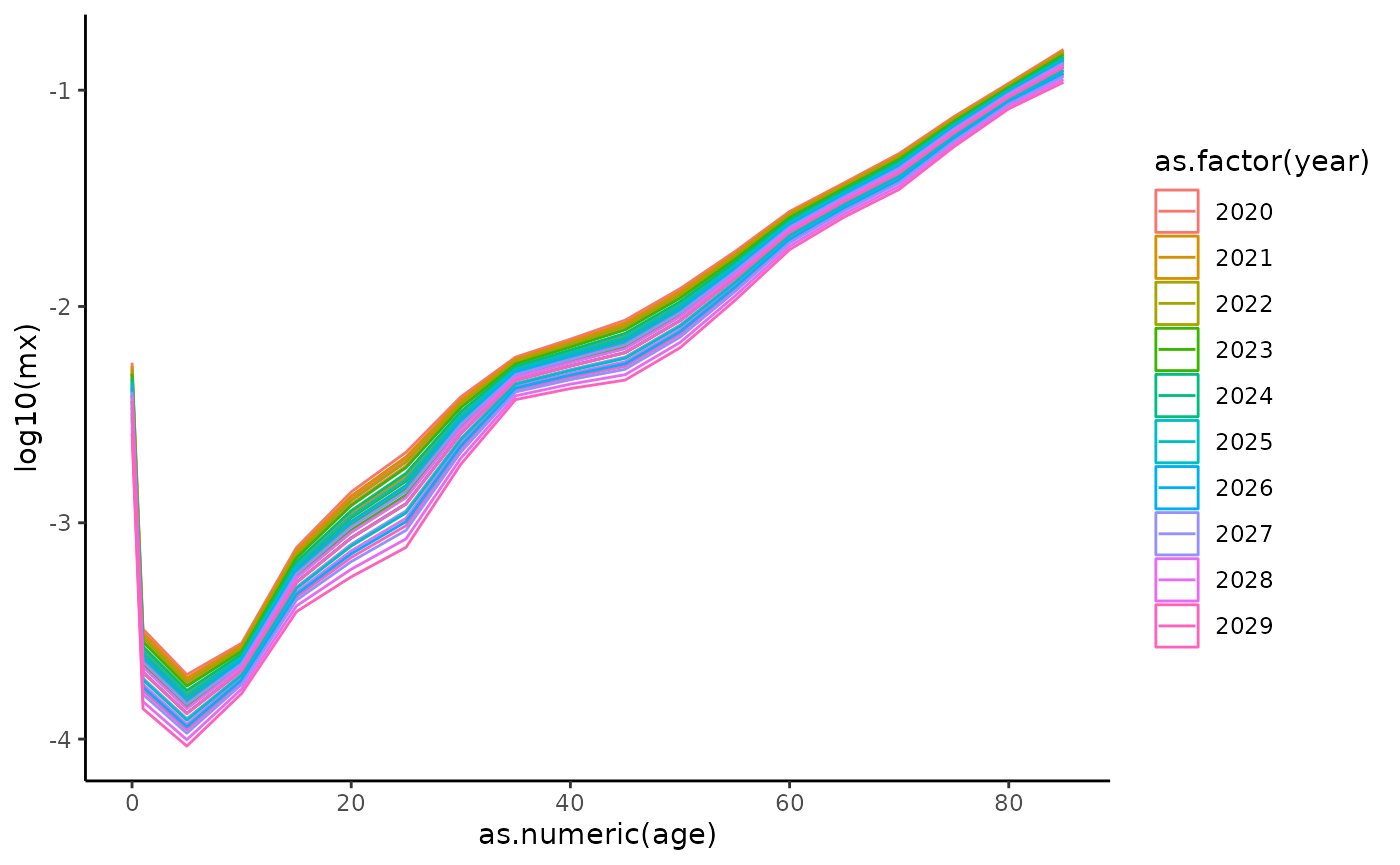
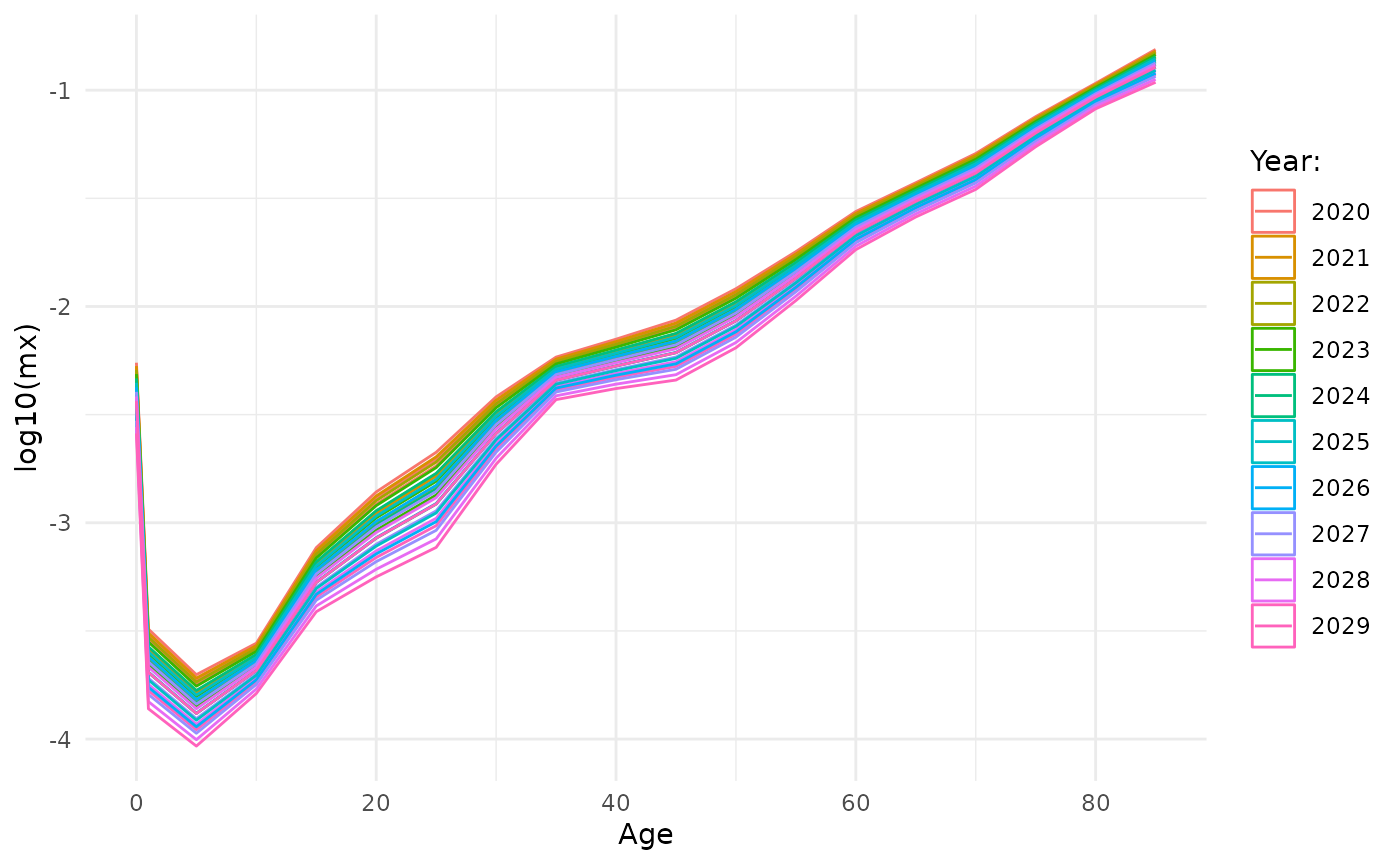
Deploying to gh-pages from @ vadvu/demor@c4a06abc60a213417fa99fec09deb61d9591432f 🚀

Changed region(s): [[0.0614, 0.0624, 0.8293, 0.9988], [0.7986, 0.1561, 0.9829, 0.7491]]

diff --git a/articles/demor.html b/articles/demor.html
@@ -70,7 +70,7 @@
 <div class="sourceCode" id="cb1"><pre class="downlit sourceCode r">
 <code class="sourceCode R"><span><span class="kw"><a href="https://rdrr.io/r/base/library.html" class="external-link">library</a></span><span class="op">(</span><span class="va"><a href="https://vadvu.github.io/demor/">demor</a></span><span class="op">)</span></span></code></pre></div>
 <div class="section level2">
-<h2 id="get-rosbris-data">Get ROSBRIS data<a class="anchor" aria-label="anchor" href="#get-rosbris-data"></a>
+<h2 id="get-rosbris-data">Get Rosbris data<a class="anchor" aria-label="anchor" href="#get-rosbris-data"></a>
 </h2>
 <p>For getting data from <a href="http://demogr.nes.ru/index.php/ru/demogr_indicat/data" class="external-link">RosBris</a>
 there is a function <code><a href="../reference/get_rosbris.html">get_rosbris()</a></code> that can download data on
@@ -160,15 +160,14 @@ in Andreev &amp; Kingkade (<a href="https://doi.org/10.4054/DemRes.2015.33.13" c
 <p>Note, from life table one can compute other <em>functions</em> (not
 just <span class="math inline">\(e_x\)</span> or <span class="math inline">\(l_x\)</span>):<br>
 1. <span class="math inline">\(CDR = \frac{1}{e_0}\)</span> or Death
-rate above some age <span class="math inline">\(x:
-\frac{1}{e_x}\)</span>.<br>
-2. Probability of surviving from age <span class="math inline">\(x\)</span> to age <span class="math inline">\(y\)</span>: <span class="math inline">\(p=\frac{l_y}{l_x}\)</span>.<br>
-3. Probability that a newborn will die between ages <span class="math inline">\(x\)</span> and <span class="math inline">\(x+n\)</span>: <span class="math inline">\(\frac{d_x^n}{l_0}\)</span>.<br>
-4. Probability that a newborn will die between ages <span class="math inline">\(x\)</span> and <span class="math inline">\(y\)</span>: <span class="math inline">\(\frac{l_x-l_y}{l_0}\)</span>.<br>
+rate above some age <span class="math inline">\(x: 1/e_x\)</span>.<br>
+2. Probability of surviving from age <span class="math inline">\(x\)</span> to age <span class="math inline">\(y\)</span>: <span class="math inline">\(p=l_y/l_x\)</span>.<br>
+3. Probability that a newborn will die between ages <span class="math inline">\(x\)</span> and <span class="math inline">\(x+n\)</span>: <span class="math inline">\(d_x^n/l_0\)</span>.<br>
+4. Probability that a newborn will die between ages <span class="math inline">\(x\)</span> and <span class="math inline">\(y\)</span>: <span class="math inline">\((l_x-l_y)/l_0\)</span>.<br>
 5. Life course ratio from age <span class="math inline">\(x\)</span> to
 <span class="math inline">\(y\)</span> that is the fraction of
 person-years lived from age <span class="math inline">\(x\)</span>
-onward: <span class="math inline">\(\frac{T_y}{T_x}\)</span>.</p>
+onward: <span class="math inline">\(T_y/T_x\)</span>.</p>
 </div>
 <div class="section level3">
 <h3 id="human-life-indicator-hli">Human Life Indicator (HLI)<a class="anchor" aria-label="anchor" href="#human-life-indicator-hli"></a>
@@ -177,7 +176,10 @@ onward: <span class="math inline">\(\frac{T_y}{T_x}\)</span>.</p>
 is the <em>human life indicator</em> (HLI) proposed by Ghislandi,
 Sanderson and Scherbov (<a href="https://doi.org/10.1111/padr.12205" class="external-link">2019</a>). It requires just
 <span class="math inline">\(m_x\)</span> (and it is based on <em>life
-table</em>). Lets calculate it using our example data:</p>
+table</em>). It is calculated as geometric mean of lifespans: <span class="math display">\[HLI = \prod_x^\omega{(x+a_x)^{d_x}}\]</span>
+where <em>x</em> is age and <em>a</em>, <em>d</em> are functions from
+<em>life table</em>.</p>
+<p>Lets calculate it using our example data:</p>
 <div class="sourceCode" id="cb5"><pre class="downlit sourceCode r">
 <code class="sourceCode R"><span><span class="fu"><a href="../reference/hli.html">hli</a></span><span class="op">(</span></span>
 <span>  age <span class="op">=</span> <span class="va">rus2010</span><span class="op">$</span><span class="va">age</span>, </span>
@@ -432,13 +434,16 @@ extensions) for mortality forecasting:</p>
 <div class="sourceCode" id="cb17"><pre class="downlit sourceCode r">
 <code class="sourceCode R"><span><span class="fu"><a href="https://ggplot2.tidyverse.org/reference/ggplot.html" class="external-link">ggplot</a></span><span class="op">(</span>data <span class="op">=</span> <span class="va">leecart_forecast</span><span class="op">[</span><span class="va">leecart_forecast</span><span class="op">$</span><span class="va">age</span><span class="op">==</span><span class="st">"0"</span>,<span class="op">]</span>, <span class="fu"><a href="https://ggplot2.tidyverse.org/reference/aes.html" class="external-link">aes</a></span><span class="op">(</span><span class="va">year</span>, <span class="va">ex</span><span class="op">)</span><span class="op">)</span><span class="op">+</span></span>
 <span>  <span class="fu"><a href="https://ggplot2.tidyverse.org/reference/geom_path.html" class="external-link">geom_line</a></span><span class="op">(</span><span class="op">)</span><span class="op">+</span><span class="fu"><a href="https://ggplot2.tidyverse.org/reference/geom_ribbon.html" class="external-link">geom_ribbon</a></span><span class="op">(</span><span class="fu"><a href="https://ggplot2.tidyverse.org/reference/aes.html" class="external-link">aes</a></span><span class="op">(</span>ymin <span class="op">=</span> <span class="va">ex_low95</span>, ymax <span class="op">=</span> <span class="va">ex_high95</span><span class="op">)</span>, alpha <span class="op">=</span> <span class="fl">0.3</span>, fill <span class="op">=</span> <span class="st">"red"</span><span class="op">)</span><span class="op">+</span></span>
-<span>  <span class="fu"><a href="https://ggplot2.tidyverse.org/reference/ggtheme.html" class="external-link">theme_classic</a></span><span class="op">(</span><span class="op">)</span></span></code></pre></div>
+<span>  <span class="fu"><a href="https://ggplot2.tidyverse.org/reference/ggtheme.html" class="external-link">theme_classic</a></span><span class="op">(</span><span class="op">)</span><span class="op">+</span></span>
+<span>  <span class="fu"><a href="https://ggplot2.tidyverse.org/reference/scale_continuous.html" class="external-link">scale_x_continuous</a></span><span class="op">(</span>breaks <span class="op">=</span> <span class="fu"><a href="https://rdrr.io/r/base/seq.html" class="external-link">seq</a></span><span class="op">(</span><span class="fl">2020</span>, <span class="fl">2030</span>, <span class="fl">2</span><span class="op">)</span><span class="op">)</span></span></code></pre></div>
 <p><img src="demor_files/figure-html/unnamed-chunk-16-1.png" width="100%"></p>
 <div class="sourceCode" id="cb18"><pre class="downlit sourceCode r">
 <code class="sourceCode R"><span></span>
+<span></span>
 <span><span class="fu"><a href="https://ggplot2.tidyverse.org/reference/ggplot.html" class="external-link">ggplot</a></span><span class="op">(</span>data <span class="op">=</span> <span class="va">leecart_forecast</span>, <span class="fu"><a href="https://ggplot2.tidyverse.org/reference/aes.html" class="external-link">aes</a></span><span class="op">(</span><span class="fu"><a href="https://rdrr.io/r/base/numeric.html" class="external-link">as.numeric</a></span><span class="op">(</span><span class="va">age</span><span class="op">)</span>, <span class="fu"><a href="https://rdrr.io/r/base/Log.html" class="external-link">log10</a></span><span class="op">(</span><span class="va">mx</span><span class="op">)</span>, color <span class="op">=</span> <span class="fu"><a href="https://rdrr.io/r/base/factor.html" class="external-link">as.factor</a></span><span class="op">(</span><span class="va">year</span><span class="op">)</span><span class="op">)</span><span class="op">)</span><span class="op">+</span></span>
 <span>  <span class="fu"><a href="https://ggplot2.tidyverse.org/reference/geom_path.html" class="external-link">geom_line</a></span><span class="op">(</span><span class="op">)</span><span class="op">+</span><span class="fu"><a href="https://ggplot2.tidyverse.org/reference/geom_ribbon.html" class="external-link">geom_ribbon</a></span><span class="op">(</span><span class="fu"><a href="https://ggplot2.tidyverse.org/reference/aes.html" class="external-link">aes</a></span><span class="op">(</span>ymin <span class="op">=</span> <span class="fu"><a href="https://rdrr.io/r/base/Log.html" class="external-link">log10</a></span><span class="op">(</span><span class="va">mx_low95</span><span class="op">)</span>, ymax <span class="op">=</span> <span class="fu"><a href="https://rdrr.io/r/base/Log.html" class="external-link">log10</a></span><span class="op">(</span><span class="va">mx_high95</span><span class="op">)</span><span class="op">)</span>, alpha <span class="op">=</span> <span class="fl">0</span><span class="op">)</span><span class="op">+</span></span>
-<span>  <span class="fu"><a href="https://ggplot2.tidyverse.org/reference/ggtheme.html" class="external-link">theme_classic</a></span><span class="op">(</span><span class="op">)</span></span></code></pre></div>
+<span>  <span class="fu"><a href="https://ggplot2.tidyverse.org/reference/ggtheme.html" class="external-link">theme_minimal</a></span><span class="op">(</span><span class="op">)</span><span class="op">+</span></span>
+<span>  <span class="fu"><a href="https://ggplot2.tidyverse.org/reference/labs.html" class="external-link">labs</a></span><span class="op">(</span>x <span class="op">=</span> <span class="st">"Age"</span>, color <span class="op">=</span> <span class="st">"Year:"</span><span class="op">)</span></span></code></pre></div>
 <p><img src="demor_files/figure-html/unnamed-chunk-16-2.png" width="100%"></p>
 </div>
 <div class="section level3">
@@ -581,26 +586,26 @@ mortality data. We already have data in <code>dbm</code>.</p>
 <h2 id="references">References<a class="anchor" aria-label="anchor" href="#references"></a>
 </h2>
 <ul>
-<li>Center for Demographic Research, Moscow (Russia). 2023. “Russian
-Fertility and Mortality Database (Rosbris)” <a href="http://www.demogr.nes.ru/en/demogr_indicat/data" class="external-link">URL</a><br>
+<li>Center for Demographic Research (2023). <em>Russian Fertility and
+Mortality Database (Rosbris)</em>. <a href="http://www.demogr.nes.ru/en/demogr_indicat/data" class="external-link">URL</a><br>
 </li>
 <li>Andreev, E. M., &amp; Kingkade, W. W. (2015). Average age at death
 in infancy and infant mortality level: Reconsidering the Coale-Demeny
-formulas at current levels of low mortality. Demographic Research, 33,
-363-390.<br>
+formulas at current levels of low mortality. <em>Demographic
+Research</em>, <em>33</em>, 363-390.<br>
 </li>
 <li>Ghislandi, S., Sanderson, W. C., &amp; Scherbov, S. (2019). A simple
-measure of human development: The human life indicator. Population and
-development review, 45(1), 219.<br>
+measure of human development: The human life indicator. <em>Population
+and development review</em>, <em>45</em>(<em>1</em>), 219-233.<br>
 </li>
-<li>Andreev, E. M., &amp; Shkolnikov, V. M. (2012). An Excel spreadsheet
-for the decomposition of a difference between two values of an aggregate
-demographic measure by stepwise replacement running from young to old
-ages. MPIDR Technical Report TR-2012-002. <a href="https://www.demogr.mpg.de/en/publications_databases_6118/publications_1904/mpidr_technical_reports/an_excel_spreadsheet_for_the_decomposition_of_a_difference_between_two_values_of_an_aggregate_demographic_4591" class="external-link">URL</a><br>
+<li>Andreev, E. M., &amp; Shkolnikov, V. M. (2012). <em>An Excel
+spreadsheet for the decomposition of a difference between two values of
+an aggregate demographic measure by stepwise replacement running from
+young to old ages</em>. MPIDR Technical Report TR-2012-002. <a href="https://www.demogr.mpg.de/en/publications_databases_6118/publications_1904/mpidr_technical_reports/an_excel_spreadsheet_for_the_decomposition_of_a_difference_between_two_values_of_an_aggregate_demographic_4591" class="external-link">URL</a><br>
 </li>
 <li>Lee, R. D., &amp; Carter, L. R. (1992). Modeling and forecasting US
-mortality. Journal of the American statistical association, 87(419),
-659-671.</li>
+mortality. <em>Journal of the American statistical association</em>,
+<em>87</em>(<em>419</em>), 659-671.</li>
 </ul>
 </div>
   </main><aside class="col-md-3"><nav id="toc"><h2>On this page</h2>

diff --git a/reference/pipe.html b/reference/pipe.html
@@ -1,0 +1,87 @@
+<!DOCTYPE html>
+<!-- Generated by pkgdown: do not edit by hand --><html lang="en"><head><meta http-equiv="Content-Type" content="text/html; charset=UTF-8"><meta charset="utf-8"><meta http-equiv="X-UA-Compatible" content="IE=edge"><meta name="viewport" content="width=device-width, initial-scale=1, shrink-to-fit=no"><meta name="description" content="See magrittr::%&amp;gt;% for details."><title>Pipe operator — %&gt;% • demor</title><script src="../deps/jquery-3.6.0/jquery-3.6.0.min.js"></script><meta name="viewport" content="width=device-width, initial-scale=1, shrink-to-fit=no"><link href="../deps/bootstrap-5.3.1/bootstrap.min.css" rel="stylesheet"><script src="../deps/bootstrap-5.3.1/bootstrap.bundle.min.js"></script><!-- Font Awesome icons --><link rel="stylesheet" href="https://cdnjs.cloudflare.com/ajax/libs/font-awesome/5.12.1/css/all.min.css" integrity="sha256-mmgLkCYLUQbXn0B1SRqzHar6dCnv9oZFPEC1g1cwlkk=" crossorigin="anonymous"><link rel="stylesheet" href="https://cdnjs.cloudflare.com/ajax/libs/font-awesome/5.12.1/css/v4-shims.min.css" integrity="sha256-wZjR52fzng1pJHwx4aV2AO3yyTOXrcDW7jBpJtTwVxw=" crossorigin="anonymous"><!-- bootstrap-toc --><script src="https://cdn.jsdelivr.net/gh/afeld/bootstrap-toc@v1.0.1/dist/bootstrap-toc.min.js" integrity="sha256-4veVQbu7//Lk5TSmc7YV48MxtMy98e26cf5MrgZYnwo=" crossorigin="anonymous"></script><!-- headroom.js --><script src="https://cdnjs.cloudflare.com/ajax/libs/headroom/0.11.0/headroom.min.js" integrity="sha256-AsUX4SJE1+yuDu5+mAVzJbuYNPHj/WroHuZ8Ir/CkE0=" crossorigin="anonymous"></script><script src="https://cdnjs.cloudflare.com/ajax/libs/headroom/0.11.0/jQuery.headroom.min.js" integrity="sha256-ZX/yNShbjqsohH1k95liqY9Gd8uOiE1S4vZc+9KQ1K4=" crossorigin="anonymous"></script><!-- clipboard.js --><script src="https://cdnjs.cloudflare.com/ajax/libs/clipboard.js/2.0.6/clipboard.min.js" integrity="sha256-inc5kl9MA1hkeYUt+EC3BhlIgyp/2jDIyBLS6k3UxPI=" crossorigin="anonymous"></script><!-- search --><script src="https://cdnjs.cloudflare.com/ajax/libs/fuse.js/6.4.6/fuse.js" integrity="sha512-zv6Ywkjyktsohkbp9bb45V6tEMoWhzFzXis+LrMehmJZZSys19Yxf1dopHx7WzIKxr5tK2dVcYmaCk2uqdjF4A==" crossorigin="anonymous"></script><script src="https://cdnjs.cloudflare.com/ajax/libs/autocomplete.js/0.38.0/autocomplete.jquery.min.js" integrity="sha512-GU9ayf+66Xx2TmpxqJpliWbT5PiGYxpaG8rfnBEk1LL8l1KGkRShhngwdXK1UgqhAzWpZHSiYPc09/NwDQIGyg==" crossorigin="anonymous"></script><script src="https://cdnjs.cloudflare.com/ajax/libs/mark.js/8.11.1/mark.min.js" integrity="sha512-5CYOlHXGh6QpOFA/TeTylKLWfB3ftPsde7AnmhuitiTX4K5SqCLBeKro6sPS8ilsz1Q4NRx3v8Ko2IBiszzdww==" crossorigin="anonymous"></script><!-- pkgdown --><script src="../pkgdown.js"></script><meta property="og:title" content="Pipe operator — %&gt;%"><meta property="og:description" content="See magrittr::%&amp;gt;% for details."><!-- mathjax --><script src="https://cdnjs.cloudflare.com/ajax/libs/mathjax/2.7.5/MathJax.js" integrity="sha256-nvJJv9wWKEm88qvoQl9ekL2J+k/RWIsaSScxxlsrv8k=" crossorigin="anonymous"></script><script src="https://cdnjs.cloudflare.com/ajax/libs/mathjax/2.7.5/config/TeX-AMS-MML_HTMLorMML.js" integrity="sha256-84DKXVJXs0/F8OTMzX4UR909+jtl4G7SPypPavF+GfA=" crossorigin="anonymous"></script><!--[if lt IE 9]>
+<script src="https://oss.maxcdn.com/html5shiv/3.7.3/html5shiv.min.js"></script>
+<script src="https://oss.maxcdn.com/respond/1.4.2/respond.min.js"></script>
+<![endif]--></head><body>
+    <a href="#main" class="visually-hidden-focusable">Skip to contents</a>
+    
+
+    <nav class="navbar fixed-top navbar-dark navbar-expand-lg bg-primary"><div class="container">
+    
+    <a class="navbar-brand me-2" href="../index.html">demor</a>
+
+    <small class="nav-text text-muted me-auto" data-bs-toggle="tooltip" data-bs-placement="bottom" title="">0.0.1</small>
+
+    
+    <button class="navbar-toggler" type="button" data-bs-toggle="collapse" data-bs-target="#navbar" aria-controls="navbar" aria-expanded="false" aria-label="Toggle navigation">
+      <span class="navbar-toggler-icon"></span>
+    </button>
+
+    <div id="navbar" class="collapse navbar-collapse ms-3">
+      <ul class="navbar-nav me-auto"><li class="nav-item">
+  <a class="nav-link" href="../articles/demor.html">Get started</a>
+</li>
+<li class="active nav-item">
+  <a class="nav-link" href="../reference/index.html">Reference</a>
+</li>
+      </ul><form class="form-inline my-2 my-lg-0" role="search">
+        <input type="search" class="form-control me-sm-2" aria-label="Toggle navigation" name="search-input" data-search-index="../search.json" id="search-input" placeholder="Search for" autocomplete="off"></form>
+
+      <ul class="navbar-nav"></ul></div>
+
+    
+  </div>
+</nav><div class="container template-reference-topic">
+<div class="row">
+  <main id="main" class="col-md-9"><div class="page-header">
+      <img src="" class="logo" alt=""><h1>Pipe operator</h1>
+      
+      <div class="d-none name"><code>pipe.Rd</code></div>
+    </div>
+
+    <div class="ref-description section level2">
+    <p>See <code>magrittr::%&gt;%</code> for details.</p>
+    </div>
+
+    <div class="section level2">
+    <h2 id="ref-usage">Usage<a class="anchor" aria-label="anchor" href="#ref-usage"></a></h2>
+    <div class="sourceCode"><pre class="sourceCode r"><code><span><span class="va">lhs</span> <span class="op">%&gt;%</span> <span class="va">rhs</span></span></code></pre></div>
+    </div>
+
+    <div class="section level2">
+    <h2 id="arguments">Arguments<a class="anchor" aria-label="anchor" href="#arguments"></a></h2>
+    <dl><dt>lhs</dt>
+<dd><p>A value or the magrittr placeholder.</p></dd>
+
+
+<dt>rhs</dt>
+<dd><p>A function call using the magrittr semantics.</p></dd>
+
+</dl></div>
+    <div class="section level2">
+    <h2 id="value">Value<a class="anchor" aria-label="anchor" href="#value"></a></h2>
+    
+
+<p>The result of calling <code>rhs(lhs)</code>.</p>
+    </div>
+
+  </main><aside class="col-md-3"><nav id="toc"><h2>On this page</h2>
+    </nav></aside></div>
+
+
+    <footer><div class="pkgdown-footer-left">
+  <p></p><p>Developed by Vadim Ustyuzhanin.</p>
+</div>
+
+<div class="pkgdown-footer-right">
+  <p></p><p>Site built with <a href="https://pkgdown.r-lib.org/" class="external-link">pkgdown</a> 2.0.7.</p>
+</div>
+
+    </footer></div>
+
+  
+
+  
+
+  </body></html>
+
